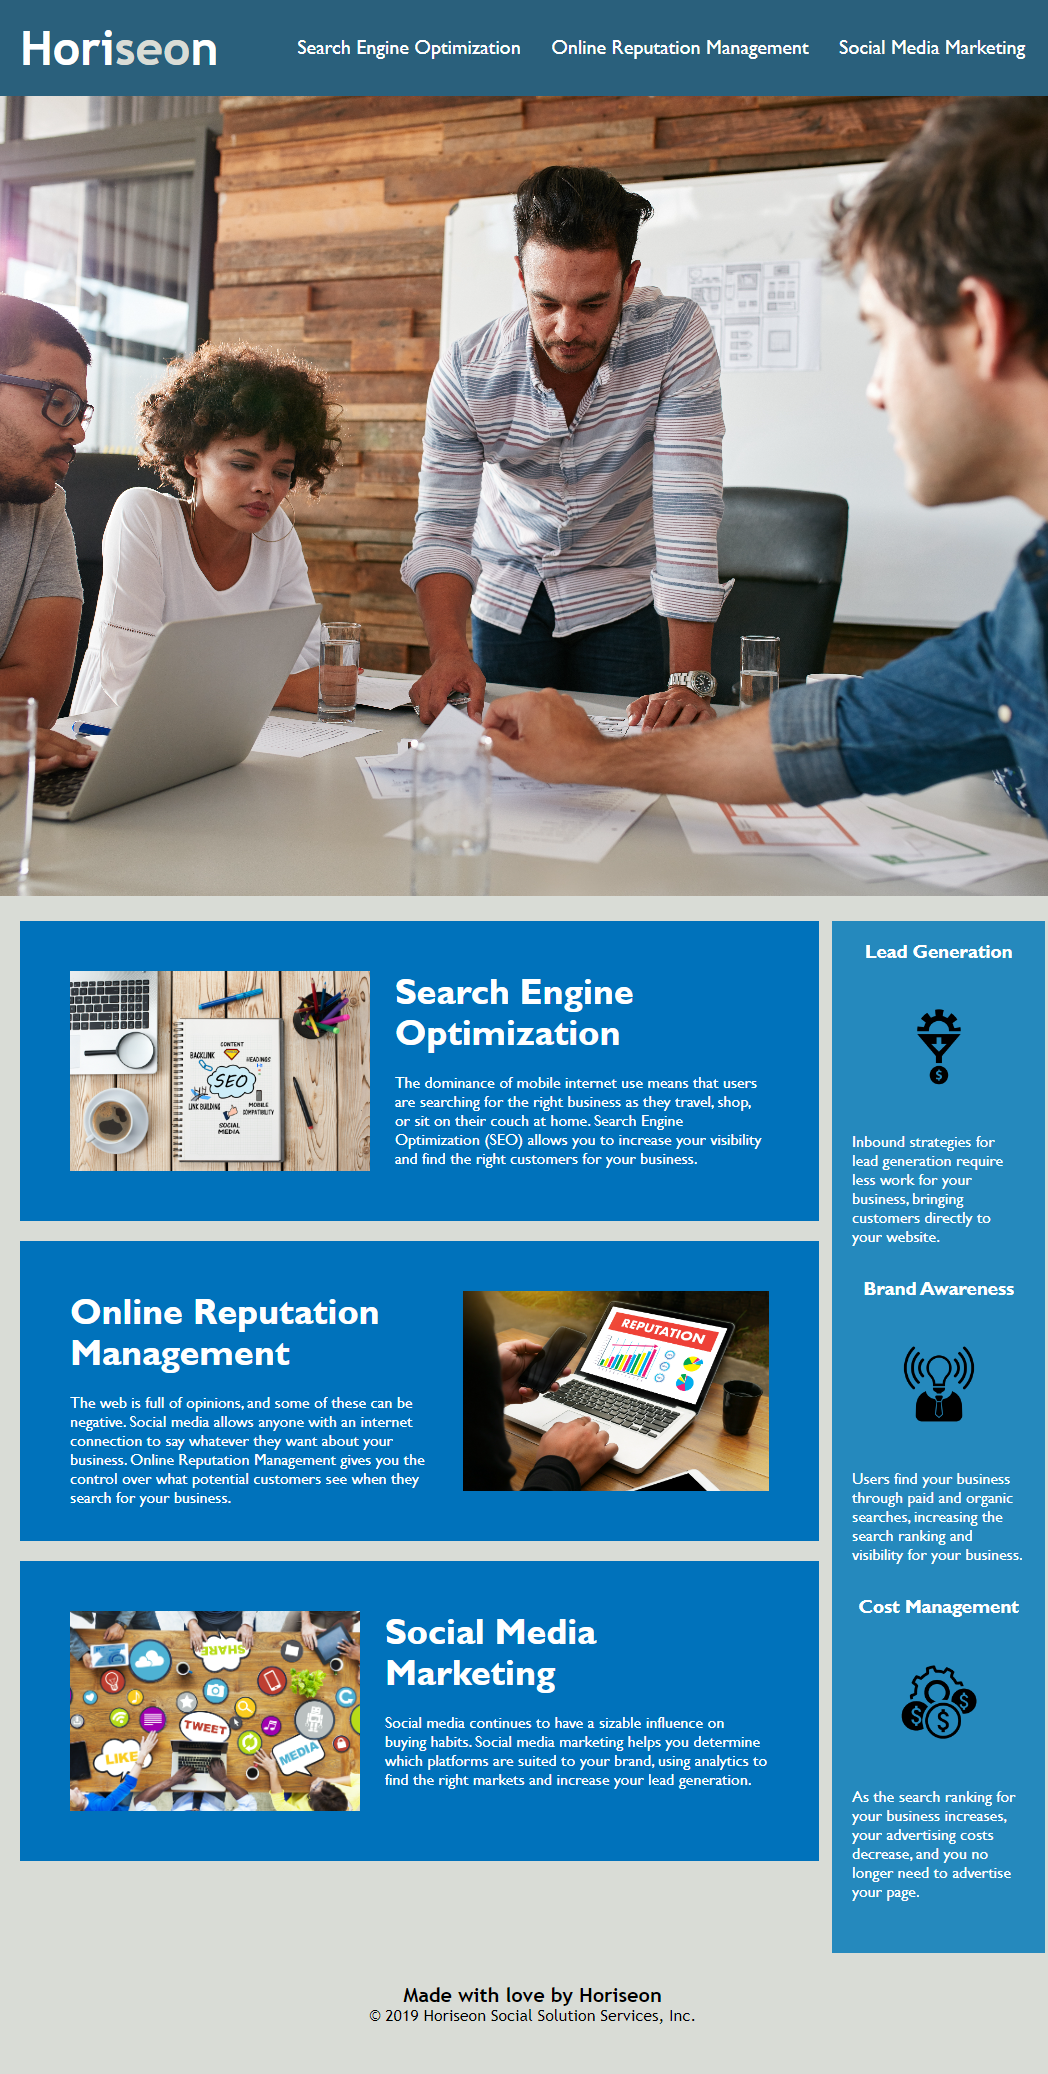
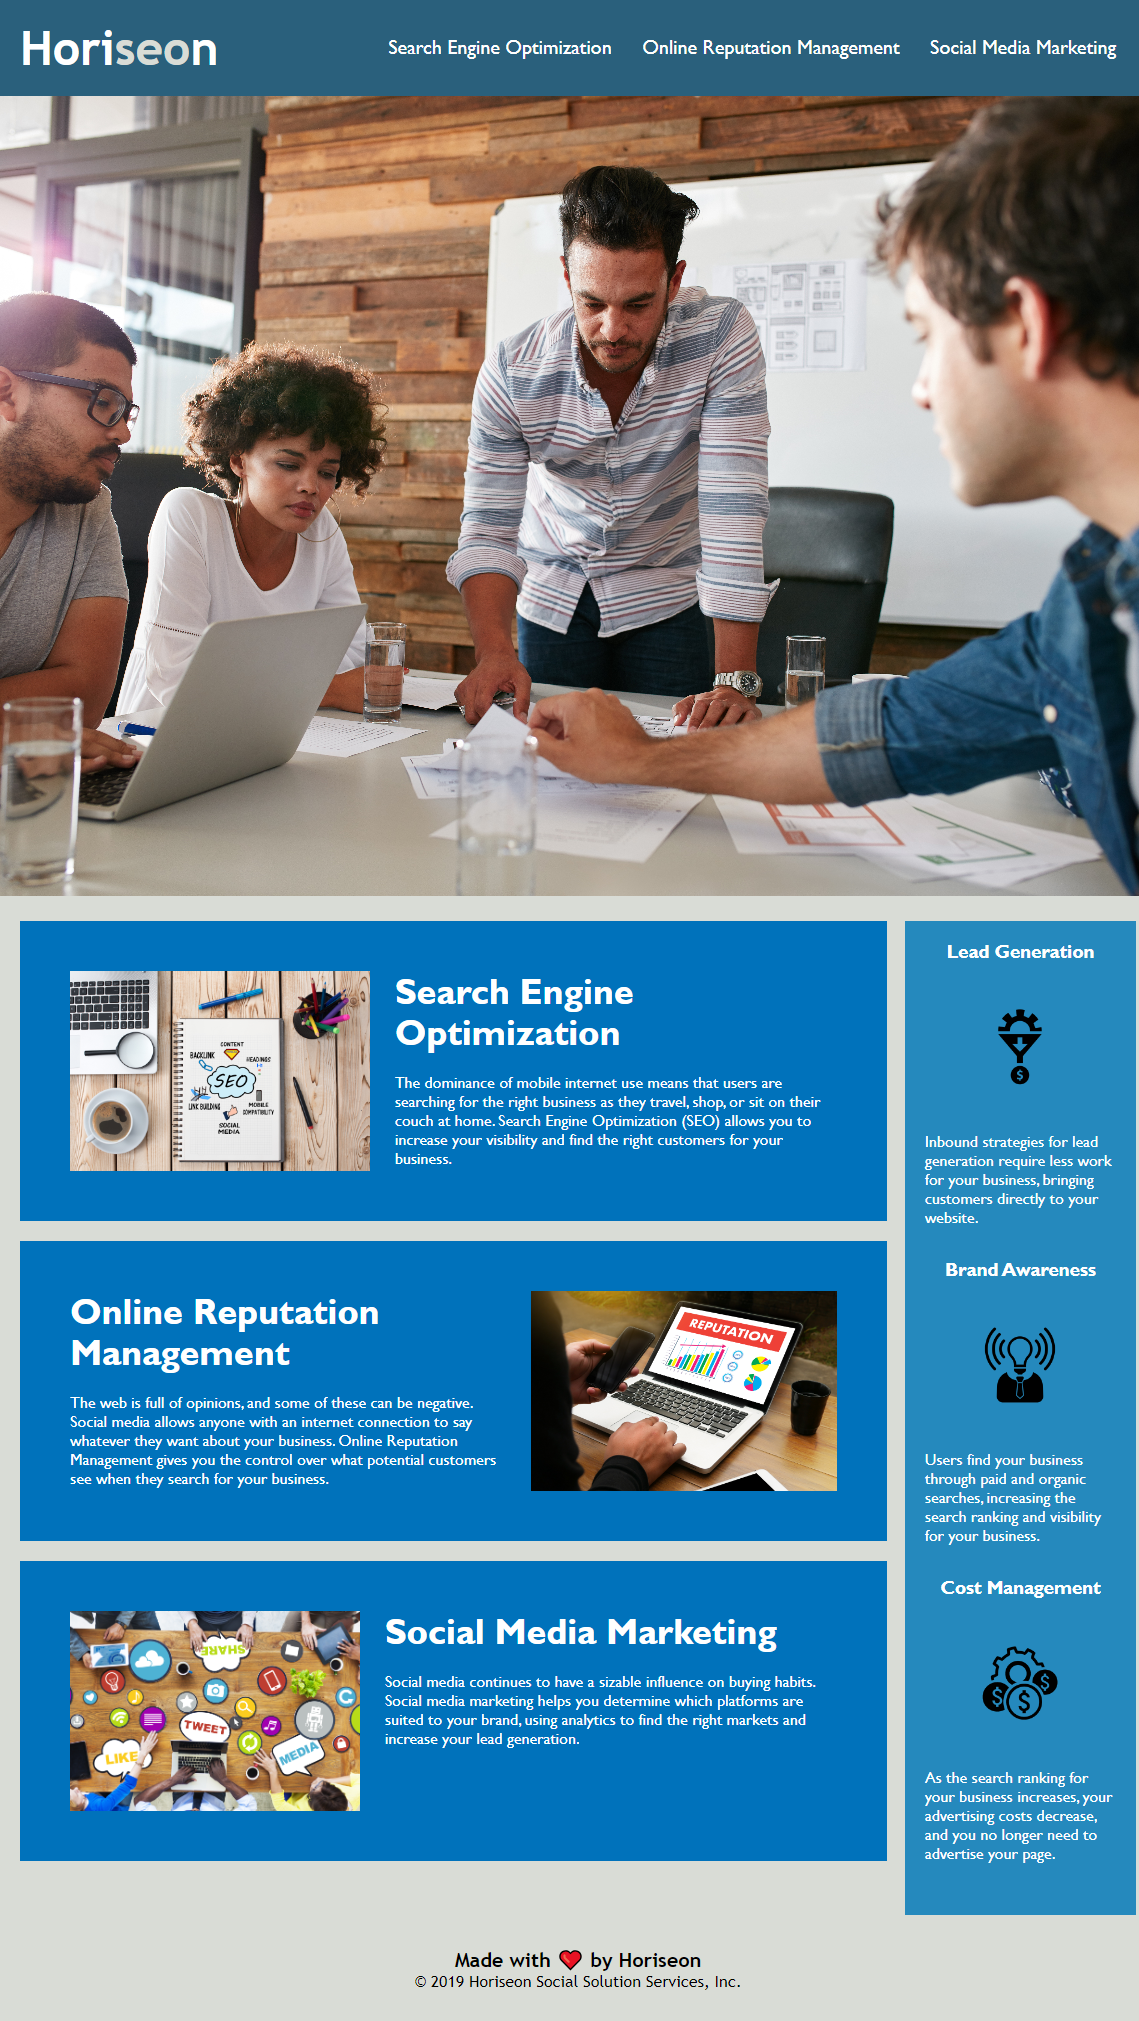
This commit adds minor alt-text updates and reverts to the emoji use (now with alt) for visual purposes. README update to reflect this

diff --git a/index.html b/index.html
@@ -28,7 +28,7 @@
             </nav>
     </header>
         <!-- Added section title to be used as ALT text -->
-        <section class="hero-image" title="Employees discussing documents in a meeting"></section> 
+        <section class="hero-image" title="Digital marketing professionals discussing documents in a meeting"></section> 
         <!-- renamed div to main for context -->
         <main class="content"> 
             <!-- renamed div to section for context and removed unecessary class -->
@@ -90,8 +90,8 @@
         </div>
     </aside>
     <footer class="footer">
-        <!-- removed emoji below and replaced with "love" as its alt text is "heavy black heart", and changed h2 to h4 -->
-        <h4>Made with love by Horiseon</h4>
+        <!-- Added alt-text to the emoji through span, and changed h2 to h4 -->
+        <h4>Made with <span role="img" aria-label="love">❤</span> by Horiseon</h4>
         <p>&copy; 2019 Horiseon Social Solution Services, Inc.</p>
     </footer>
 </body>

diff --git a/README.md b/README.md
@@ -16,7 +16,7 @@ In order for these changes to be implemented in the live version of Horiseon's w
 
 ## Mock-Up
 
-Visually there is only one change on the application, which can be seen at the bottom
+The updated code does not affect the application visually:
 
 ![screenshot of Horiseon's website with the updated code](assets/images/screenshot.png)
 
